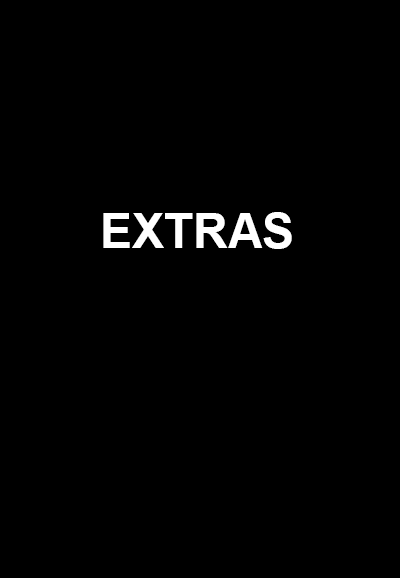
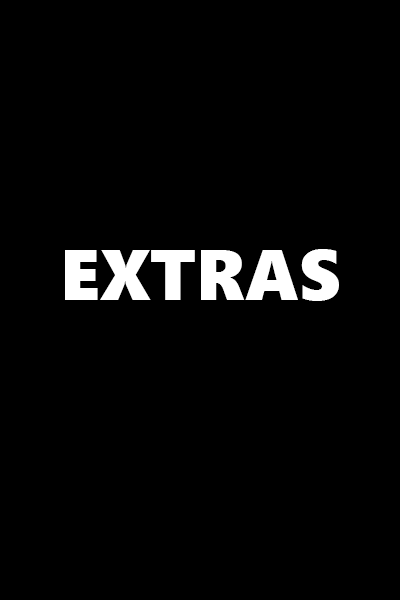
no preview season imgs

Changed region(s): [[0.15, 0.3426, 0.87, 0.5294]]

diff --git a/LVP-WPF/Properties/Resources.Designer.cs b/LVP-WPF/Properties/Resources.Designer.cs
@@ -63,6 +63,206 @@ namespace LVP_WPF.Properties {
         /// <summary>
         ///   Looks up a localized resource of type System.Drawing.Bitmap.
         /// </summary>
+        internal static System.Drawing.Bitmap _1 {
+            get {
+                object obj = ResourceManager.GetObject("_1", resourceCulture);
+                return ((System.Drawing.Bitmap)(obj));
+            }
+        }
+        
+        /// <summary>
+        ///   Looks up a localized resource of type System.Drawing.Bitmap.
+        /// </summary>
+        internal static System.Drawing.Bitmap _10 {
+            get {
+                object obj = ResourceManager.GetObject("_10", resourceCulture);
+                return ((System.Drawing.Bitmap)(obj));
+            }
+        }
+        
+        /// <summary>
+        ///   Looks up a localized resource of type System.Drawing.Bitmap.
+        /// </summary>
+        internal static System.Drawing.Bitmap _11 {
+            get {
+                object obj = ResourceManager.GetObject("_11", resourceCulture);
+                return ((System.Drawing.Bitmap)(obj));
+            }
+        }
+        
+        /// <summary>
+        ///   Looks up a localized resource of type System.Drawing.Bitmap.
+        /// </summary>
+        internal static System.Drawing.Bitmap _12 {
+            get {
+                object obj = ResourceManager.GetObject("_12", resourceCulture);
+                return ((System.Drawing.Bitmap)(obj));
+            }
+        }
+        
+        /// <summary>
+        ///   Looks up a localized resource of type System.Drawing.Bitmap.
+        /// </summary>
+        internal static System.Drawing.Bitmap _13 {
+            get {
+                object obj = ResourceManager.GetObject("_13", resourceCulture);
+                return ((System.Drawing.Bitmap)(obj));
+            }
+        }
+        
+        /// <summary>
+        ///   Looks up a localized resource of type System.Drawing.Bitmap.
+        /// </summary>
+        internal static System.Drawing.Bitmap _14 {
+            get {
+                object obj = ResourceManager.GetObject("_14", resourceCulture);
+                return ((System.Drawing.Bitmap)(obj));
+            }
+        }
+        
+        /// <summary>
+        ///   Looks up a localized resource of type System.Drawing.Bitmap.
+        /// </summary>
+        internal static System.Drawing.Bitmap _15 {
+            get {
+                object obj = ResourceManager.GetObject("_15", resourceCulture);
+                return ((System.Drawing.Bitmap)(obj));
+            }
+        }
+        
+        /// <summary>
+        ///   Looks up a localized resource of type System.Drawing.Bitmap.
+        /// </summary>
+        internal static System.Drawing.Bitmap _16 {
+            get {
+                object obj = ResourceManager.GetObject("_16", resourceCulture);
+                return ((System.Drawing.Bitmap)(obj));
+            }
+        }
+        
+        /// <summary>
+        ///   Looks up a localized resource of type System.Drawing.Bitmap.
+        /// </summary>
+        internal static System.Drawing.Bitmap _17 {
+            get {
+                object obj = ResourceManager.GetObject("_17", resourceCulture);
+                return ((System.Drawing.Bitmap)(obj));
+            }
+        }
+        
+        /// <summary>
+        ///   Looks up a localized resource of type System.Drawing.Bitmap.
+        /// </summary>
+        internal static System.Drawing.Bitmap _18 {
+            get {
+                object obj = ResourceManager.GetObject("_18", resourceCulture);
+                return ((System.Drawing.Bitmap)(obj));
+            }
+        }
+        
+        /// <summary>
+        ///   Looks up a localized resource of type System.Drawing.Bitmap.
+        /// </summary>
+        internal static System.Drawing.Bitmap _19 {
+            get {
+                object obj = ResourceManager.GetObject("_19", resourceCulture);
+                return ((System.Drawing.Bitmap)(obj));
+            }
+        }
+        
+        /// <summary>
+        ///   Looks up a localized resource of type System.Drawing.Bitmap.
+        /// </summary>
+        internal static System.Drawing.Bitmap _2 {
+            get {
+                object obj = ResourceManager.GetObject("_2", resourceCulture);
+                return ((System.Drawing.Bitmap)(obj));
+            }
+        }
+        
+        /// <summary>
+        ///   Looks up a localized resource of type System.Drawing.Bitmap.
+        /// </summary>
+        internal static System.Drawing.Bitmap _20 {
+            get {
+                object obj = ResourceManager.GetObject("_20", resourceCulture);
+                return ((System.Drawing.Bitmap)(obj));
+            }
+        }
+        
+        /// <summary>
+        ///   Looks up a localized resource of type System.Drawing.Bitmap.
+        /// </summary>
+        internal static System.Drawing.Bitmap _3 {
+            get {
+                object obj = ResourceManager.GetObject("_3", resourceCulture);
+                return ((System.Drawing.Bitmap)(obj));
+            }
+        }
+        
+        /// <summary>
+        ///   Looks up a localized resource of type System.Drawing.Bitmap.
+        /// </summary>
+        internal static System.Drawing.Bitmap _4 {
+            get {
+                object obj = ResourceManager.GetObject("_4", resourceCulture);
+                return ((System.Drawing.Bitmap)(obj));
+            }
+        }
+        
+        /// <summary>
+        ///   Looks up a localized resource of type System.Drawing.Bitmap.
+        /// </summary>
+        internal static System.Drawing.Bitmap _5 {
+            get {
+                object obj = ResourceManager.GetObject("_5", resourceCulture);
+                return ((System.Drawing.Bitmap)(obj));
+            }
+        }
+        
+        /// <summary>
+        ///   Looks up a localized resource of type System.Drawing.Bitmap.
+        /// </summary>
+        internal static System.Drawing.Bitmap _6 {
+            get {
+                object obj = ResourceManager.GetObject("_6", resourceCulture);
+                return ((System.Drawing.Bitmap)(obj));
+            }
+        }
+        
+        /// <summary>
+        ///   Looks up a localized resource of type System.Drawing.Bitmap.
+        /// </summary>
+        internal static System.Drawing.Bitmap _7 {
+            get {
+                object obj = ResourceManager.GetObject("_7", resourceCulture);
+                return ((System.Drawing.Bitmap)(obj));
+            }
+        }
+        
+        /// <summary>
+        ///   Looks up a localized resource of type System.Drawing.Bitmap.
+        /// </summary>
+        internal static System.Drawing.Bitmap _8 {
+            get {
+                object obj = ResourceManager.GetObject("_8", resourceCulture);
+                return ((System.Drawing.Bitmap)(obj));
+            }
+        }
+        
+        /// <summary>
+        ///   Looks up a localized resource of type System.Drawing.Bitmap.
+        /// </summary>
+        internal static System.Drawing.Bitmap _9 {
+            get {
+                object obj = ResourceManager.GetObject("_9", resourceCulture);
+                return ((System.Drawing.Bitmap)(obj));
+            }
+        }
+        
+        /// <summary>
+        ///   Looks up a localized resource of type System.Drawing.Bitmap.
+        /// </summary>
         internal static System.Drawing.Bitmap coffee {
             get {
                 object obj = ResourceManager.GetObject("coffee", resourceCulture);

diff --git a/LVP-WPF/Windows/SeasonWindow.xaml.cs b/LVP-WPF/Windows/SeasonWindow.xaml.cs
@@ -28,7 +28,7 @@ namespace LVP_WPF.Windows
                 }
                 else
                 {
-                    img = tvShow.Seasons[i].Poster == null ? "Resources\\noPrev.png" : tvShow.Seasons[i].Poster;
+                    img = tvShow.Seasons[i].Poster == null ? ("Resources\\no-preview-seasons\\" + (i + 1).ToString() + ".png") : tvShow.Seasons[i].Poster;
                 }
                 seasonBoxes[i] = new SeasonWindowBox
                 {
